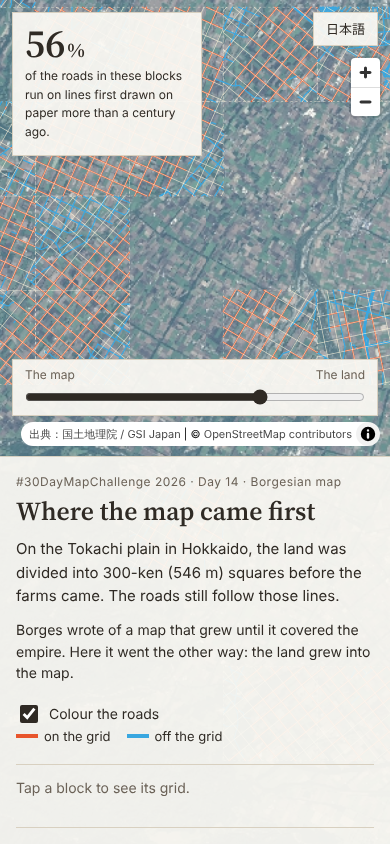
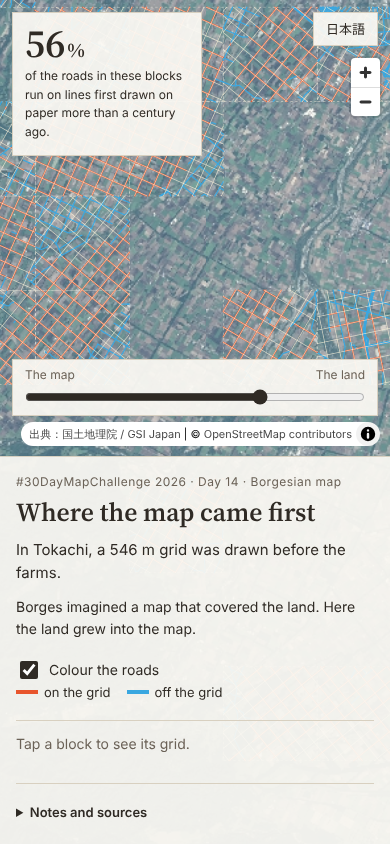
Shorten intro text

diff --git a/web/app.js b/web/app.js
@@ -5,8 +5,8 @@
     en: {
       kicker: "#30DayMapChallenge 2026 · Day 14 · Borgesian map",
       title: "Where the map came first",
-      lede: "On the Tokachi plain in Hokkaido, the land was divided into 300-ken (546 m) squares before the farms came. The roads still follow those lines.",
-      borges: "Borges wrote of a map that grew until it covered the empire. Here it went the other way: the land grew into the map.",
+      lede: "In Tokachi, a 546 m grid was drawn before the farms.",
+      borges: "Borges imagined a map that covered the land. Here the land grew into the map.",
       history: "Under the 1897 law for opening up state-owned wild land, each 300-ken square was split into six lots of 150 × 100 ken, and one lot (5 chōbu, about 5 ha) went to one household. The settlement survey went on until 1946.",
       mapEnd: "The map",
       landEnd: "The land",
@@ -36,8 +36,8 @@
     ja: {
       kicker: "#30DayMapChallenge 2026 · Day 14 · Borgesian map",
       title: "地図が先に来た場所",
-      lede: "北海道・十勝平野では、畑より先に300間（546m）四方の格子が引かれた。道はいまもその線の上を走っている。",
-      borges: "ボルヘスは、帝国を覆うまで大きくなった地図の話を書いた。ここではその逆に、土地の方が地図の形に育った。",
+      lede: "十勝では、畑より先に546m四方の格子が引かれた。",
+      borges: "ボルヘスの地図は領土を覆った。ここでは土地が地図の形に育った。",
       history: "1897年の北海道国有未開地処分法のもとで、300間四方の中区画は150間×100間の小区画6つに分けられ、小区画1つ（5町歩）が1戸に割り当てられた。殖民地選定事業は1946年まで続いた。",
       mapEnd: "地図",
       landEnd: "土地",
